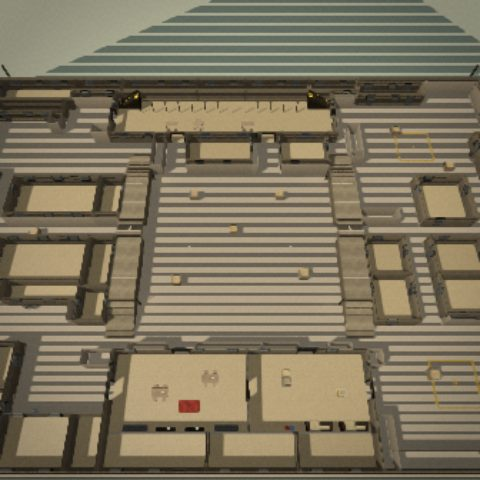
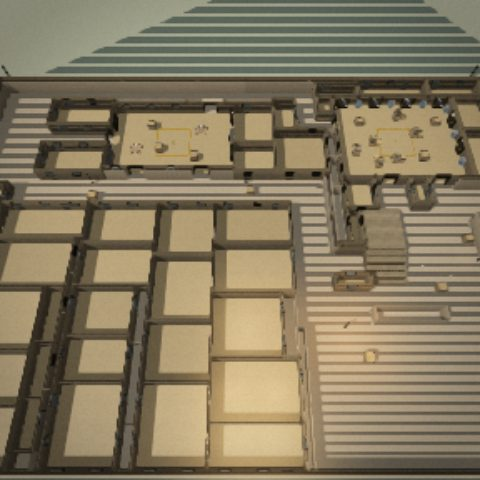
0.44: new layouts for the five bomb maps, map previews refreshed
Claude-Session: https://claude.ai/code/session_01GN9eovAVmnAvf7X6uufZbK

diff --git a/minifps/web/src/head.html b/minifps/web/src/head.html
@@ -267,7 +267,7 @@ input[type=range] { accent-color: var(--signal); width: 100%; height: 30px; marg
   </div>
 
   <section class="scr" id="s-title">
-    <div class="eyebrow">v0.43 · 오프라인 봇전</div>
+    <div class="eyebrow">v0.44 · 오프라인 봇전</div>
     <h1>Mini-FPS</h1>
     <div class="tag"><i></i><span id="t-tag">팀 데스매치 · 폭파 미션</span></div>
     <div><button class="cta" data-go="s-lobby" id="go-start" disabled>불러오는 중…</button></div>
